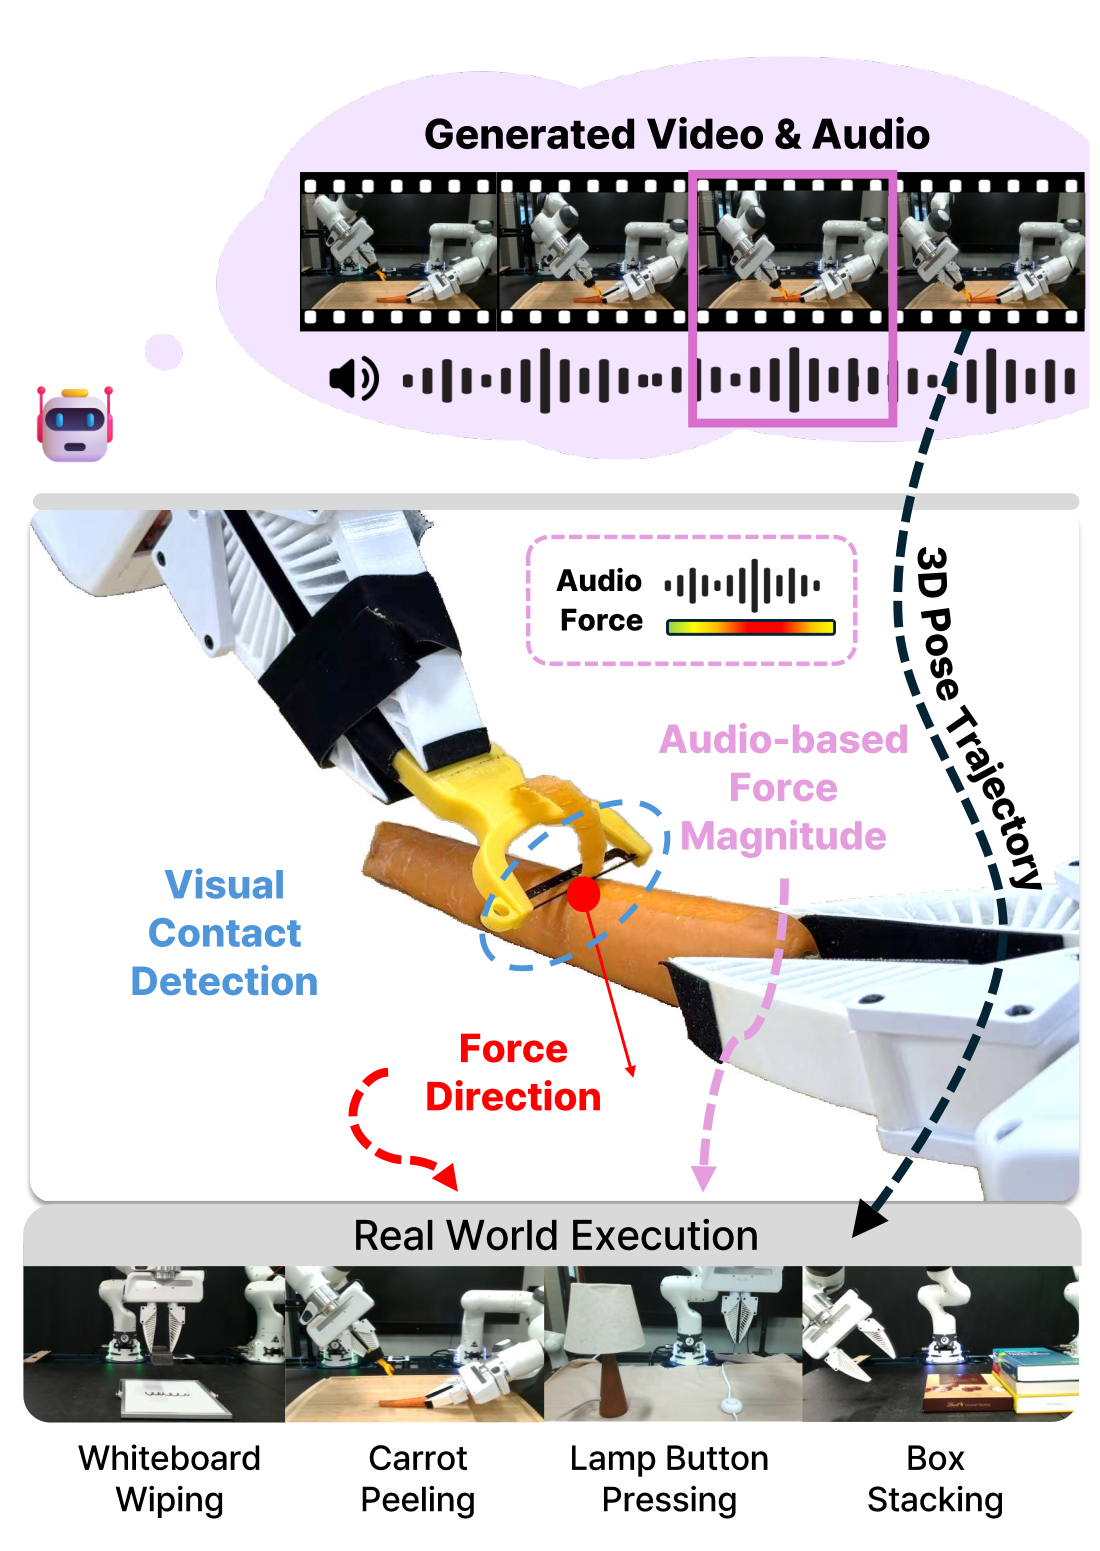
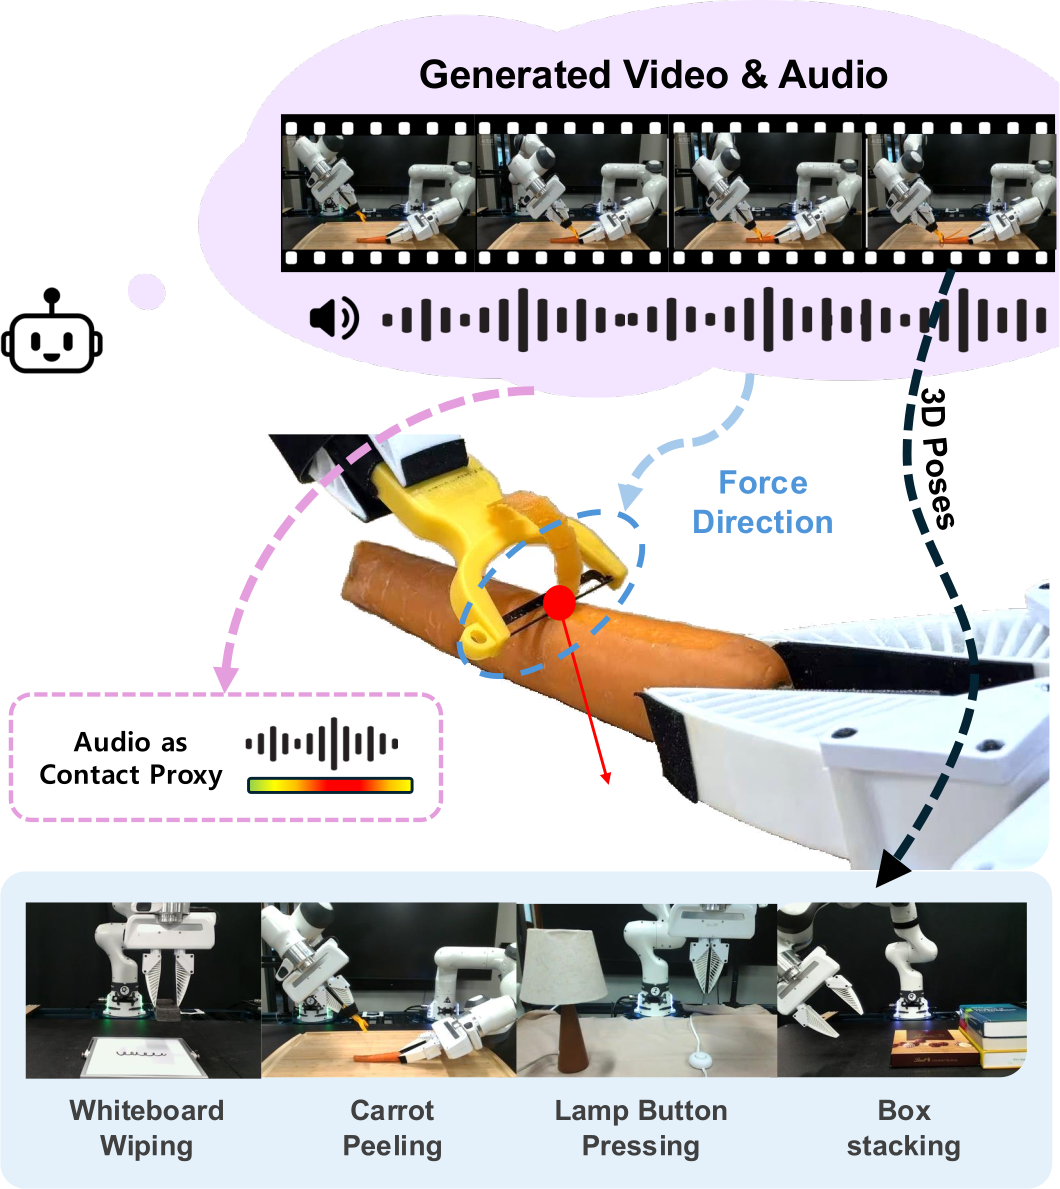
Walkthrough layout, new figures, prompts section

diff --git a/index.html b/index.html
@@ -19,7 +19,7 @@
   <link rel="preconnect" href="https://fonts.gstatic.com" crossorigin>
   <link href="https://fonts.googleapis.com/css2?family=Plus+Jakarta+Sans:wght@400;500;600;700;800&family=JetBrains+Mono:wght@400;600&display=swap" rel="stylesheet">
 
-  <link rel="stylesheet" href="assets/style.css">
+  <link rel="stylesheet" href="assets/style.css?v=17">
 </head>
 <body>
   <main class="page">
@@ -125,7 +125,7 @@
 
         <!-- Concept figure on transparent background, no card treatment. -->
         <div class="hero__visual">
-          <img src="figs/concept.png?v=10"
+          <img src="figs/concept.png?v=11"
                alt="Concept overview: three stacked panels showing generated video and audio, a robot contact point with force-direction and audio-magnitude annotations, and real-world execution examples — whiteboard wiping, carrot peeling, lamp button pressing, and box stacking."/>
         </div>
       </div>
@@ -208,74 +208,84 @@
 
     </section>
 
-    <!-- 3. ABSTRACT (editorial) ============================== -->
-    <section class="abstract section section--divided reveal" id="abstract">
-      <p class="kicker">Abstract</p>
-      <h2>Audio is the force signal video can't see.</h2>
-      <div class="abstract__body">
-        <p>
-          Recent advances in video generation enable learning robot manipulation trajectories from generated
-          videos. However, these approaches produce purely kinematic trajectories that lack force information,
-          leading to failure in contact-rich tasks where appropriate contact forces are essential for success.
-          Generated audio carries a complementary and underexplored signal: contact sounds encode force dynamics
-          that video alone cannot capture.
-        </p>
-        <p>
-          We present a pipeline that jointly leverages generated video and audio to recover both motion
-          trajectories and contact force profiles from a single task description. We execute these force-aware
-          trajectories on a Franka Panda robot using a closed-loop force regulator that tracks the audio-derived
-          force profile during contact. Real-robot experiments across four contact-rich tasks — whiteboard
-          wiping, carrot peeling, box stacking, and button pressing — demonstrate that our force-aware pipeline
-          enables successful manipulation from video generation, where a kinematic-only baseline fails.
-        </p>
-        <p>
-          We further show that the pipeline can serve as an automated force-aware data-generation engine:
-          a closed-loop policy trained on the generated demonstrations generalizes across object placements
-          and appearances.
-        </p>
-      </div>
-    </section>
+    <!-- 3. WALKTHROUGH (numbered timeline) =================== -->
+    <div class="tl">
 
-    <!-- 3. PIPELINE (iridescent aurora card) ================= -->
-    <section class="card card--aurora pipeline reveal" id="pipeline">
-      <p class="kicker">Pipeline</p>
-      <h2>Audio as the force signal.</h2>
-      <p>
-        Our vision pipeline localizes the object and gripper (MolmoPoint), segments them (SAM&nbsp;2), and
-        recovers depth and 3D point tracks (TAPIP3D) to detect contacts and infer force directions. The audio
-        pipeline isolates the contact sound (SAM-Audio) and extracts loudness as a force-magnitude proxy.
-        A 1&nbsp;kHz impedance controller closes the loop on the audio-derived force profile.
-      </p>
-      <img src="figs/pipeline.png?v=9" alt="Pipeline diagram: vision branch localizes, segments, and tracks in 3D to estimate force direction; audio branch isolates the contact sound and extracts loudness; the combined force-aware trajectory runs on a Franka Panda with closed-loop force regulation." />
-    </section>
-
-    <!-- 4b. POLICY LEARNING ================================== -->
-    <section class="abstract section section--divided reveal" id="policy">
-      <p class="kicker">Policy Learning</p>
-      <h2>The pipeline is also a data engine.</h2>
-      <div class="abstract__body">
-        <p>
-          Beyond single-trajectory execution, we use the pipeline to <strong>generate training data</strong>:
-          for all four tasks, we randomize the object position, run the full force-aware pipeline, and keep
-          50 successful rollouts per task as demonstrations, each recording end-effector pose, force profile,
-          and two RGB views. We train a CNN-based <strong>Diffusion Policy</strong> from the wrist and external
-          RGB images and the end-effector pose, in two variants: one <em>without</em> force input and one that
-          additionally observes the measured 3-D contact force. At test time both command poses through the
-          same fixed-stiffness impedance controller, with <em>no force regulator</em>, on unseen object
-          placements and appearances.
-        </p>
-        <p>
-          The policy without force input already succeeds in <strong class="num">29/40</strong> trials across
-          the four tasks; adding force input raises this to <strong class="num">34/40</strong>, with the largest
-          gains on peeling and pressing. Because the demonstrations are collected under force-aware execution,
-          the recorded poses already encode the contact behavior: comparing all demonstrations with all
-          successful rollouts as mean&nbsp;&plusmn;&nbsp;std over <strong>in-contact task progress</strong>
-          (normalized end-effector path length accumulated during contact) shows both policies maintaining
-          sustained contact and tracking the demonstrations within roughly 2&nbsp;N on wiping, pressing, and
-          stacking. Peeling is the exception: both policies press harder than the demonstrations, and the
-          force-input policy presses hardest, which removes the skin more reliably.
-        </p>
+      <div class="stp reveal" id="idea">
+        <div class="stp__n">1</div>
+        <div class="stp__body">
+          <p class="kicker">The problem</p>
+          <h2>A video shows where, not how hard.</h2>
+          <div class="stp__grid">
+            <div><p>Video generators can now dream up a robot doing a task. Turn those frames into a trajectory and a real robot can copy the motion. But a video only shows <strong>where</strong> the arm goes, not <strong>how hard</strong> it presses. For wiping, peeling, or pressing a button, that missing force is the difference between finishing the job and hovering a few millimeters above the surface, or slamming into it and triggering a safety stop.</p></div>
+            <div><p>The generated <strong>audio</strong> fills the gap. Contact sounds get louder as contact gets harder, so we use loudness as a proxy for force. From one task description we generate video and audio, take the <strong>motion</strong> from the video and the <strong>force profile</strong> from the audio, and run both on a Franka Panda with a force regulator in the loop. Those executions are good enough to become training data, too.</p></div>
+          </div>
+          <div class="big">
+            <div class="base"><b class="num">8/40</b><span>motion only · baseline</span></div>
+            <div class="ours"><b class="num">36/40</b><span>motion + audio force · ours</span></div>
+          </div>
+        </div>
       </div>
+
+      <div class="stp reveal" id="pipeline">
+        <div class="stp__n stp__n--alt">2</div>
+        <div class="stp__body">
+          <p class="kicker">The pipeline</p>
+          <h2>Four steps from a sentence to contact.</h2>
+          <ol class="steps">
+            <li><b>Generate</b>One RGB image plus a text prompt goes to Seedance&nbsp;2.0, which returns a video with audio (the exact prompts are <a href="#prompts">at the bottom</a>).</li>
+            <li><b>Motion from video</b>Find the gripper and object (MolmoPoint), segment them (SAM&nbsp;2), and track them in 3D (TAPIP3D) to get the end-effector path, the contact moments, and the force direction.</li>
+            <li><b>Force from audio</b>Isolate the contact sound (SAM-Audio) and turn its loudness into a force-magnitude profile over the contact interval.</li>
+            <li><b>Execute</b>A 1&nbsp;kHz impedance controller follows the path while a force regulator tracks the audio-derived profile during contact.</li>
+          </ol>
+          <div class="card card--aurora pipeline">
+            <img src="figs/pipeline.png?v=9" alt="Pipeline diagram: vision branch localizes, segments, and tracks in 3D to estimate force direction; audio branch isolates the contact sound and extracts loudness; the combined force-aware trajectory runs on a Franka Panda with closed-loop force regulation." />
+          </div>
+        </div>
+      </div>
+
+      <div class="stp reveal" id="force-profile">
+        <div class="stp__n stp__n--mint">3</div>
+        <div class="stp__body">
+          <p class="kicker">Sanity check</p>
+          <h2>Does the shape of the force matter?</h2>
+          <div class="stp__grid">
+            <div><p>If any contact force works, we could just press with a constant 10&nbsp;N and skip the audio. So we tried that. On wiping and peeling we ran the same trajectories with two audio-shaped profiles (peaking at 10 or 15&nbsp;N) and two constant profiles (10 and 15&nbsp;N), ten trials each.</p><p>Constant force fails at first contact: the command jumps from 0 to 10&nbsp;N in one step, the measured force overshoots toward the 20&nbsp;N limit, and the robot stops itself. The audio-shaped profile starts low and ramps up after contact, so it never trips the limit, and it finishes with a lower peak force and less total impulse.</p></div>
+            <figure class="vis">
+              <img src="figs/force_profile.png?v=12" alt="Desired (dashed) and measured (solid) force over the contact phase for variable 15 N (green) and constant 10 N (red) profiles on whiteboard wiping and carrot peeling; mean and one standard deviation over successful rollouts."/>
+              <figcaption class="muted">What the robot was asked to do (dashed) vs. what it actually did (solid). Green is the audio-shaped profile, red the constant one. The audio profile ramps in; the constant one steps in and overshoots.</figcaption>
+            </figure>
+          </div>
+      <div style="overflow-x:auto;margin-top:8px">
+      <table class="results-table">
+        <thead>
+          <tr><th style="text-align:left">Task</th><th style="text-align:left">Profile</th><th>Success</th><th>Peak (N)</th><th>Impulse (N·s)</th></tr>
+        </thead>
+        <tbody>
+          <tr><th>Wiping</th><td style="text-align:left">Variable, <em>F</em><sub>max</sub>&nbsp;=&nbsp;10</td><td class="num">7/10</td><td class="num"><strong>9.31 ± 1.43</strong></td><td class="num"><strong>15.20 ± 4.42</strong></td></tr>
+          <tr><th></th><td style="text-align:left">Variable, <em>F</em><sub>max</sub>&nbsp;=&nbsp;15</td><td class="num"><strong>10/10</strong></td><td class="num">12.38 ± 1.13</td><td class="num">21.50 ± 3.32</td></tr>
+          <tr><th></th><td style="text-align:left">Constant, 10&nbsp;N</td><td class="num">8/10</td><td class="num">12.86 ± 0.45</td><td class="num">25.71 ± 5.11</td></tr>
+          <tr><th></th><td style="text-align:left">Constant, 15&nbsp;N</td><td class="num">2/10</td><td class="num">15.36 ± 0.30</td><td class="num">30.28 ± 6.32</td></tr>
+          <tr><th>Peeling</th><td style="text-align:left">Variable, <em>F</em><sub>max</sub>&nbsp;=&nbsp;10</td><td class="num"><strong>9/10</strong></td><td class="num"><strong>8.76 ± 1.65</strong></td><td class="num"><strong>18.34 ± 5.16</strong></td></tr>
+          <tr><th></th><td style="text-align:left">Variable, <em>F</em><sub>max</sub>&nbsp;=&nbsp;15</td><td class="num"><strong>9/10</strong></td><td class="num">11.39 ± 1.52</td><td class="num">27.88 ± 9.74</td></tr>
+          <tr><th></th><td style="text-align:left">Constant, 10&nbsp;N</td><td class="num">8/10</td><td class="num">12.98 ± 1.42</td><td class="num">39.16 ± 11.13</td></tr>
+          <tr><th></th><td style="text-align:left">Constant, 15&nbsp;N</td><td class="num">6/10</td><td class="num">14.79 ± 0.93</td><td class="num">106.42 ± 61.97</td></tr>
+        </tbody>
+      </table>
+      </div>
+          <p class="muted" style="font-size:13px;margin-top:8px">Peak force and impulse: mean ± std over all 10 trials, including failures.</p>
+        </div>
+      </div>
+
+      <div class="stp reveal" id="policy">
+        <div class="stp__n">4</div>
+        <div class="stp__body">
+          <p class="kicker">Then train on it</p>
+          <h2>The pipeline is also a data engine.</h2>
+          <div class="stp__grid">
+            <div><p>Every successful execution is a demonstration with images, poses, and a force profile. So we let the pipeline collect <strong>50 demonstrations per task</strong> at random object positions and trained a <strong>Diffusion Policy</strong> on them: two camera views plus the end-effector pose in, poses out. We trained two versions, one that also sees the measured contact force and one that doesn't.</p></div>
+            <div><p>At test time there is <strong>no force regulator</strong>. The policy just commands poses on new object placements and appearances, and the contact force comes from how deep it learned to press. Without force input it succeeds in <strong class="num">29/40</strong> trials; with force input, <strong class="num">34/40</strong>. On most tasks the policy's force stays within about 2&nbsp;N of the demonstrations. Peeling is the exception: the policies press harder than the demos, and the one with force input presses hardest, which peels more reliably.</p></div>
+          </div>
       <div style="overflow-x:auto;margin-top:8px">
       <table class="results-table">
         <thead>
@@ -287,20 +297,42 @@
         </tbody>
       </table>
       </div>
-      <div style="display:grid;grid-template-columns:1fr 1fr;gap:14px;margin-top:20px;align-items:start">
-        <img src="figs/policy_setup.jpg?v=11" style="width:100%;height:auto;border-radius:14px"
-             alt="Experimental setups for whiteboard wiping, carrot peeling, lamp button pressing, and chocolate box stacking: Franka Panda arms with a RealSense L515 external camera and a wrist-mounted RealSense D455."/>
-        <img src="figs/policy_force.png?v=11" style="width:100%;height:auto;border-radius:14px;background:#fff"
-             alt="Contact force over in-contact task progress for all four tasks: data collection (green), policy without force input (red), and policy with force input (blue), shown as mean and standard deviation."/>
+          <div class="figs2">
+            <img src="figs/policy_setup.jpg?v=12" alt="Experimental setups for whiteboard wiping, carrot peeling, lamp button pressing, and chocolate box stacking: Franka Panda arms with a RealSense L515 external camera and a wrist-mounted RealSense D455."/>
+            <img src="figs/policy_force.png?v=12" style="background:#fff" alt="Contact force over in-contact task progress for all four tasks: data collection (green), policy without force input (red), and policy with force input (blue), shown as mean and standard deviation."/>
+          </div>
+        </div>
       </div>
-    </section>
 
+      <div class="stp reveal" id="prompts">
+        <div class="stp__n stp__n--mint">5</div>
+        <div class="stp__body">
+          <p class="kicker">Appendix</p>
+          <h2>The prompts we used.</h2>
+          <p>Every generation call is one shared system prompt with the task description dropped into it.</p>
+          <div class="prompt prompt--sys">
+            <span class="prompt__label">System prompt</span>
+            <pre class="mono">Video: The camera remains stationary while &lt;TASK SPECIFIC PROMPT&gt;.
+
+Audio: Emphasize the sound of physical interaction and contact force central to the action, while suppressing all ambient, background, and unrelated sounds.</pre>
+          </div>
+          <div class="prompt-grid">
+            <div class="prompt"><span class="prompt__label">Whiteboard wiping</span><pre class="mono">The gripper, holding the eraser, slowly wipes the black marks off the whiteboard from right to left once, then retracts at the end.</pre></div>
+            <div class="prompt"><span class="prompt__label">Carrot peeling</span><pre class="mono">The left gripper, holding the yellow peeler, slowly peels off a layer of the carrot skin, while the right gripper remains still.</pre></div>
+            <div class="prompt"><span class="prompt__label">Chocolate box stacking</span><pre class="mono">The gripper's left finger slides fully under the chocolate box, forms a fully stable grasp, and slowly puts it on the pile of books.</pre></div>
+            <div class="prompt"><span class="prompt__label">Lamp button pressing</span><pre class="mono">The gripper performs a single press on the white button on the table and then rises back up, while remaining closed.</pre></div>
+          </div>
+          <p class="muted" style="font-size:13px;margin-top:10px">Audio separation uses one SAM-Audio prompt for every task: “The sound of contact between gripper and &lt;object&gt;”.</p>
+        </div>
+      </div>
+
+    </div>
 
     <!-- 6. FOOTER ============================================ -->
     <footer class="page-footer">
       <span class="muted">Built with ♥</span>
     </footer>
   </main>
-  <script src="assets/app.js" defer></script>
+  <script src="assets/app.js?v=13" defer></script>
 </body>
 </html>

diff --git a/assets/style.css b/assets/style.css
@@ -564,10 +564,12 @@ code, pre, .mono {
 /* ============ RESULTS TABLE (editorial) ================ */
 .results-table {
   width: 100%; border-collapse: collapse; margin-top: 12px;
-  font-size: 14px;
+  font-size: 15px;
 }
+.results-table td.num { font-size: 16px; }
+.results-table td.num strong { font-size: 17px; }
 .results-table th, .results-table td {
-  padding: 10px 12px; text-align: right;
+  padding: 10px 12px; text-align: right; white-space: nowrap;
   border-bottom: 1px solid rgba(26,20,32,.06);
 }
 .results-table thead th {
@@ -646,3 +648,63 @@ code, pre, .mono {
 .seg__btn.is-active { background: var(--ink); border-color: var(--ink); color: var(--ink-invert); }
 .seg__btn.is-active:hover { color: var(--ink-invert); transform: none; }
 .seg--run .seg__btn { min-width: 38px; padding: 8px 0; text-align: center; }
+
+/* ============ WALKTHROUGH TIMELINE ===================== */
+.tl { position: relative; display: flex; flex-direction: column; margin-top: 6px; }
+.tl::before {
+  content: ""; position: absolute; left: 21px; top: 34px; bottom: 34px; width: 1px;
+  background: rgba(26,20,32,.14);
+}
+.stp { display: grid; grid-template-columns: 64px 1fr; gap: 0 12px; padding: 26px 0 30px; }
+
+.stp__n {
+  position: relative; z-index: 1;
+  align-self: start; justify-self: start;
+  width: 42px; height: 42px; border-radius: 50%;
+  display: flex; align-items: center; justify-content: center;
+  background: #fff; border: 1.5px solid var(--ink);
+  font-size: 17px; font-weight: 700; color: var(--ink);
+  font-variant-numeric: tabular-nums;
+}
+.stp__body { padding-top: 6px; min-width: 0; }
+.stp__body h2 { font-size: 28px; }
+.stp__body p { font-size: 15.5px; }
+.stp__grid { display: grid; grid-template-columns: 1fr 1fr; gap: 26px; align-items: start; }
+.vis { margin: 0; border-radius: 18px; background: #fff; box-shadow: var(--shadow); padding: 10px; }
+.vis img { width: 100%; height: auto; display: block; border-radius: 12px; }
+.vis figcaption { font-size: 12.5px; padding: 8px 4px 0; }
+.big { display: flex; gap: 26px; margin: 6px 0 4px; }
+.big div { flex: 1; padding: 16px 18px; border-radius: 16px; background: #fff; box-shadow: var(--shadow); }
+.big b { display: block; font-size: 32px; font-weight: 800; letter-spacing: -.03em; }
+.big .ours b { color: #4339a8; } .big .base b { color: #b0325a; }
+.big span { font-size: 12px; color: var(--ink-muted); font-weight: 700; text-transform: uppercase; letter-spacing: .08em; }
+.steps { counter-reset: s; margin: 6px 0 18px; padding: 0; list-style: none; display: grid; grid-template-columns: 1fr 1fr; gap: 12px 28px; }
+.steps li { position: relative; padding-left: 14px; font-size: 14.5px; color: var(--ink); border-left: 2px solid rgba(110,123,255,.35); }
+.steps b { display: block; font-size: 16px; margin-bottom: 2px; }
+.stp .pipeline { padding: 12px; }
+.stp .pipeline img { margin-top: 0; }
+.figs2 { display: grid; grid-template-columns: 1fr 1fr; gap: 14px; margin: 18px auto 0; max-width: 880px; align-items: start; }
+.figs2 img { width: 100%; height: auto; border-radius: 14px; }
+.stp__grid .vis { max-width: 520px; }
+@media (max-width: 820px) {
+  .stp { grid-template-columns: 44px 1fr; gap: 0 10px; }
+  .stp__n { width: 34px; height: 34px; font-size: 14px; }
+  .tl::before { left: 17px; }
+  .stp__grid, .steps, .figs2 { grid-template-columns: 1fr; }
+  .figs2 img, .stp__grid .vis { max-width: 460px; margin-left: auto; margin-right: auto; }
+  .stp .pipeline { max-width: none; }
+  .big { flex-direction: column; gap: 12px; }
+  .results-table { font-size: 14px; }
+  .results-table th, .results-table td { padding: 9px 8px; }
+}
+
+/* ============ PROMPTS ================================== */
+.prompt { background: #fff; border-radius: 14px; padding: 12px 14px; box-shadow: var(--shadow); }
+.prompt--sys { margin: 10px 0 14px; background: linear-gradient(135deg, #f0ecff, #fdf1e9); }
+.prompt__label {
+  display: block; font-size: 11px; font-weight: 700; letter-spacing: .1em; text-transform: uppercase;
+  color: var(--ink-muted); margin-bottom: 6px;
+}
+.prompt pre { margin: 0; white-space: pre-wrap; word-break: break-word; font-size: 12.5px; line-height: 1.55; color: var(--ink); }
+.prompt-grid { display: grid; grid-template-columns: 1fr 1fr; gap: 12px; }
+@media (max-width: 820px) { .prompt-grid { grid-template-columns: 1fr; } }
